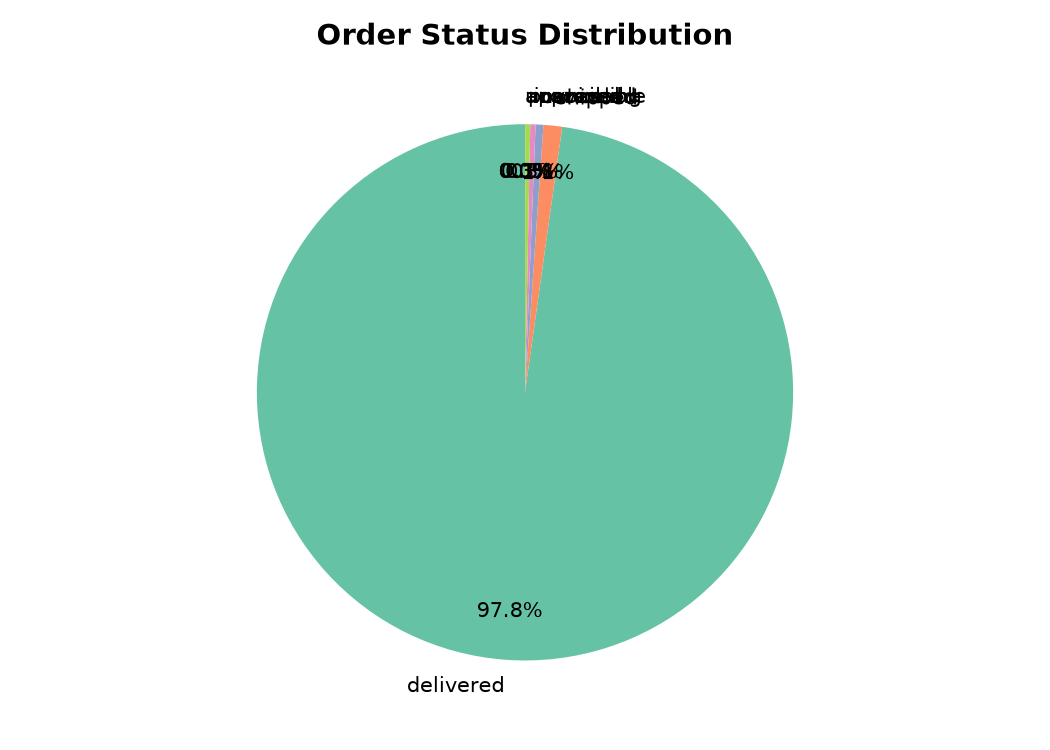
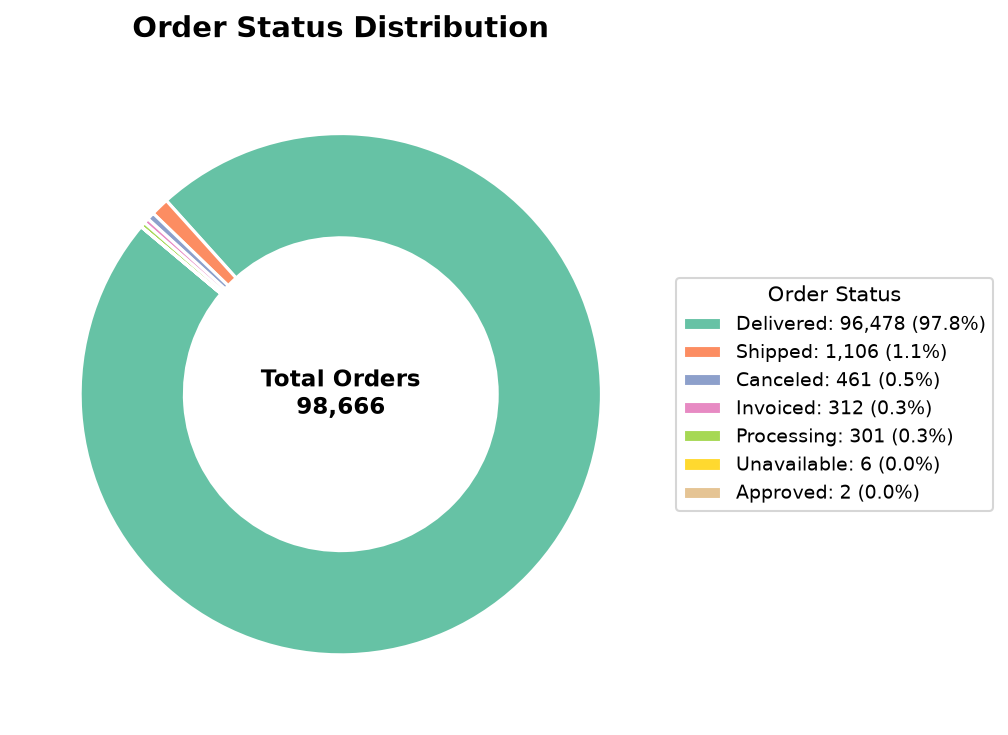
Fix overlapping labels in order status & payment type donut charts

diff --git a/python/eda_analysis.py b/python/eda_analysis.py
@@ -25,8 +25,9 @@ plt.rcParams["axes.spines.right"] = False
 sns.set_palette("Set2")
 
 # ── Paths ────────────────────────────────────────────────────
-DATA_DIR    = r"c:\Users\manoj\OneDrive\Desktop\Data analyst\data\raw"
-REPORTS_DIR = r"c:\Users\manoj\OneDrive\Desktop\Data analyst\reports"
+BASE_DIR    = os.path.dirname(os.path.dirname(os.path.abspath(__file__)))
+DATA_DIR    = os.path.join(BASE_DIR, "data", "raw")
+REPORTS_DIR = os.path.join(BASE_DIR, "reports")
 os.makedirs(REPORTS_DIR, exist_ok=True)
 
 # ============================================================
@@ -150,15 +151,24 @@ print("📊 Chart saved: 02_top10_categories_revenue.png")
 # 6. ORDER STATUS DISTRIBUTION
 # ============================================================
 status_counts = df.drop_duplicates("order_id")["order_status"].value_counts()
+total_orders_cnt = status_counts.sum()
 
-fig, ax = plt.subplots(figsize=(7, 5))
-wedges, texts, autotexts = ax.pie(
-    status_counts, labels=status_counts.index, autopct="%1.1f%%",
-    startangle=90, pctdistance=0.82
+fig, ax = plt.subplots(figsize=(8, 5))
+wedges, texts = ax.pie(
+    status_counts,
+    labels=None,
+    startangle=140,
+    colors=sns.color_palette("Set2", len(status_counts)),
+    wedgeprops=dict(width=0.4, edgecolor='white', linewidth=1.5)
 )
-ax.set_title("Order Status Distribution", fontsize=14, fontweight="bold")
+
+legend_labels = [f"{s.replace('_', ' ').capitalize()}: {c:,} ({c/total_orders_cnt*100:.1f}%)" 
+                 for s, c in status_counts.items()]
+ax.legend(wedges, legend_labels, title="Order Status", loc="center left", bbox_to_anchor=(1, 0.5), fontsize=9, frameon=True)
+ax.text(0, 0, f"Total Orders\n{total_orders_cnt:,}", ha='center', va='center', fontsize=11, fontweight='bold')
+ax.set_title("Order Status Distribution", fontsize=14, fontweight="bold", pad=15)
 plt.tight_layout()
-plt.savefig(f"{REPORTS_DIR}/03_order_status_distribution.png", dpi=150)
+plt.savefig(f"{REPORTS_DIR}/03_order_status_distribution.png", dpi=150, bbox_inches='tight')
 print("🍩 Chart saved: 03_order_status_distribution.png")
 
 # ============================================================
@@ -204,12 +214,24 @@ print("⭐ Chart saved: 05_review_score_distribution.png")
 pay_type = (payments.groupby("payment_type")["payment_value"]
                      .sum()
                      .sort_values(ascending=False))
+total_pay_val = pay_type.sum()
 
-fig, ax = plt.subplots(figsize=(7, 5))
-ax.pie(pay_type, labels=pay_type.index, autopct="%1.1f%%", startangle=90)
-ax.set_title("Payment Type Share by Value", fontsize=14, fontweight="bold")
+fig, ax = plt.subplots(figsize=(8, 5))
+wedges, texts = ax.pie(
+    pay_type,
+    labels=None,
+    startangle=140,
+    colors=sns.color_palette("Set2", len(pay_type)),
+    wedgeprops=dict(width=0.4, edgecolor='white', linewidth=1.5)
+)
+
+pay_legend_labels = [f"{ptype.replace('_', ' ').title()}: R${val/1e6:.2f}M ({val/total_pay_val*100:.1f}%)" 
+                     for ptype, val in pay_type.items()]
+ax.legend(wedges, pay_legend_labels, title="Payment Method", loc="center left", bbox_to_anchor=(1, 0.5), fontsize=9, frameon=True)
+ax.text(0, 0, f"Total Value\nR${total_pay_val/1e6:.2f}M", ha='center', va='center', fontsize=11, fontweight='bold')
+ax.set_title("Payment Type Share by Value", fontsize=14, fontweight="bold", pad=15)
 plt.tight_layout()
-plt.savefig(f"{REPORTS_DIR}/06_payment_type_share.png", dpi=150)
+plt.savefig(f"{REPORTS_DIR}/06_payment_type_share.png", dpi=150, bbox_inches='tight')
 print("💳 Chart saved: 06_payment_type_share.png")
 
 # ============================================================
